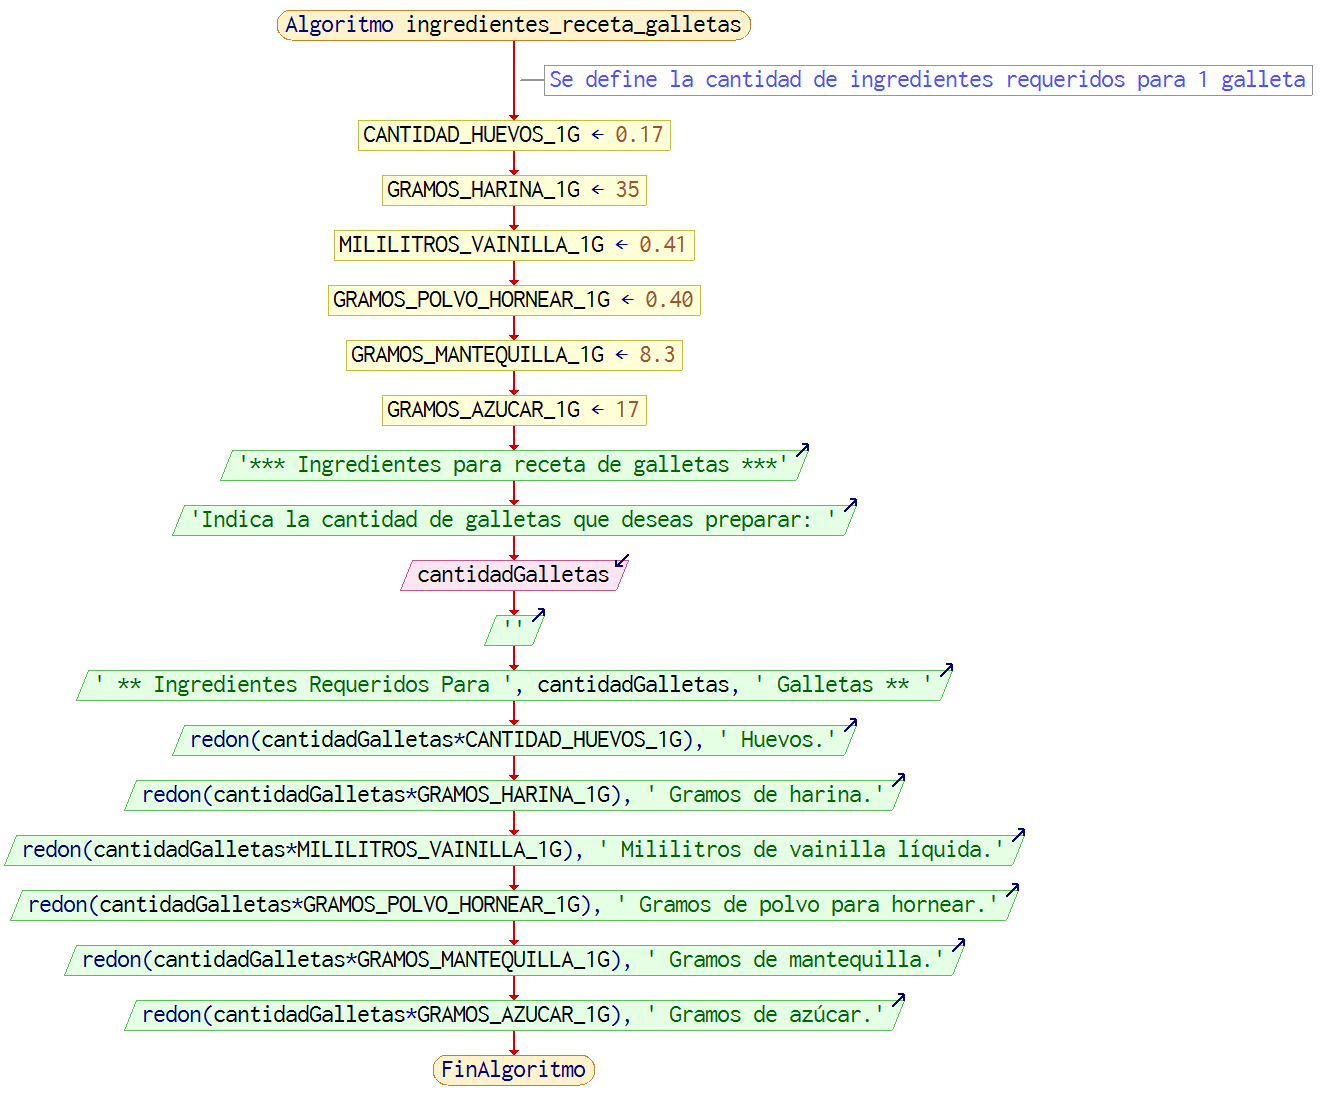
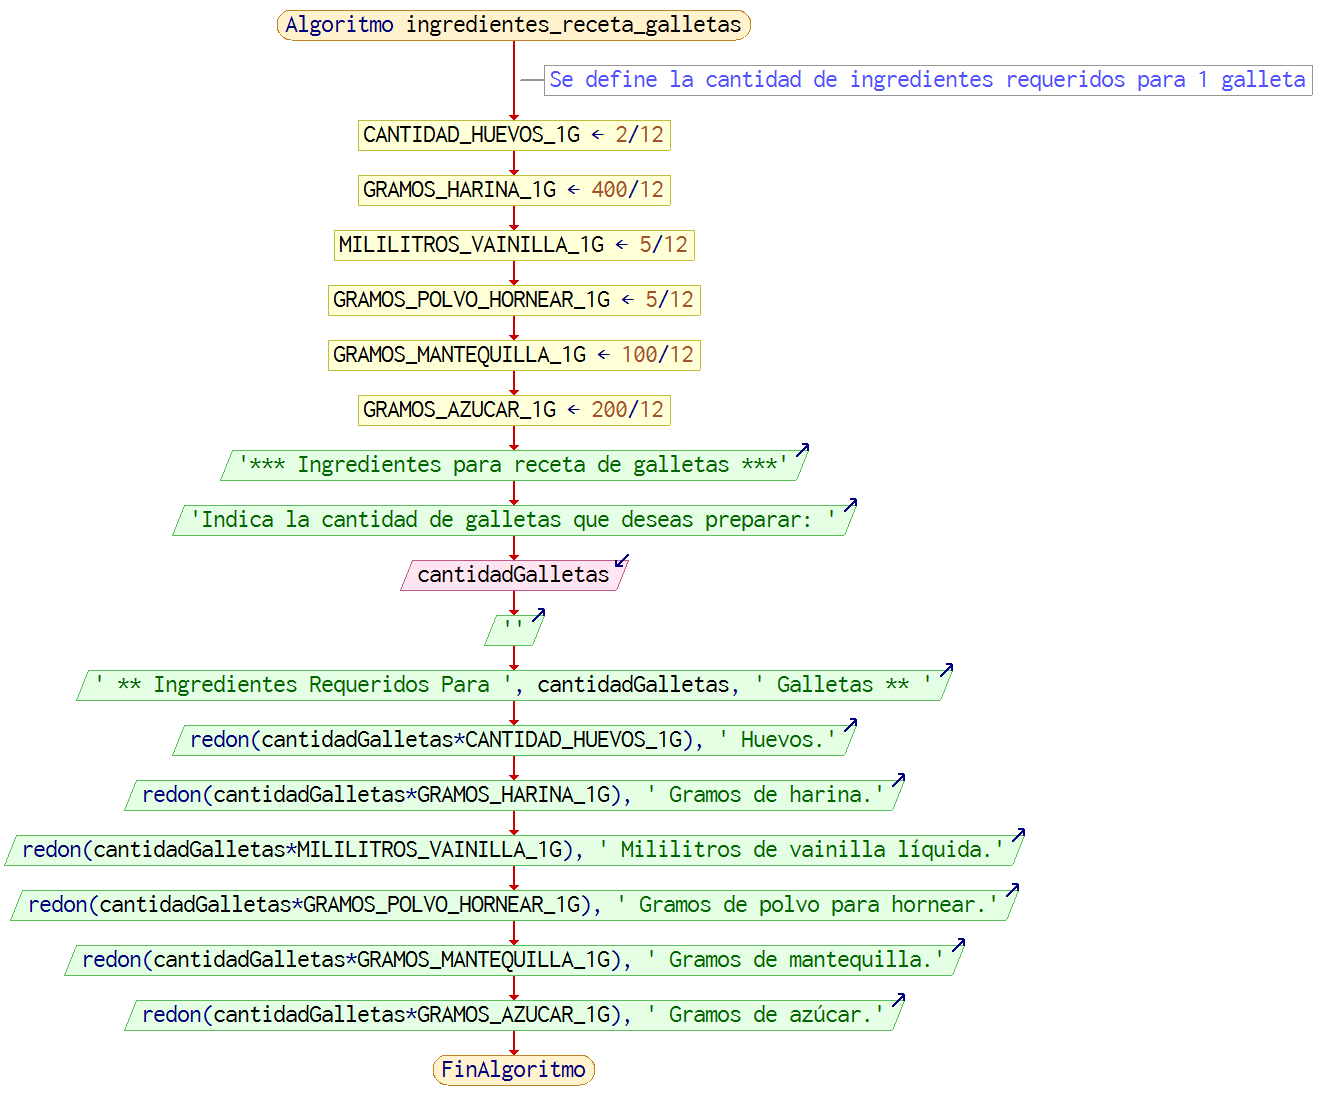
Redefinición de ejercicio

Changed region(s): [[0.2481, 0.25, 0.5272, 0.375], [0.2481, 0.1562, 0.5272, 0.2188], [0.4652, 0.0938, 0.4962, 0.125]]

diff --git a/Ejercicios/Ingredientes para receta de galletas/README.md b/Ejercicios/Ingredientes para receta de galletas/README.md
@@ -4,14 +4,14 @@ Carmen disfruta horneando galletas de mantequilla, pero encuentra tedioso calcul
 de ingredientes necesarios para ciertas porciones. Para simplificar este proceso, necesita un programa que le
 ayude. 
 
-Para cada galleta, se requieren los siguientes ingredientes:
+Si se necesitan los siguientes ingredientes para hacer 12 galletas:
 
-- 0.17 Huevos.
-- 35 Gramos de harina.
-- 0.41 Mililitros de vainilla líquida.
-- 0.40 Gramos de polvo para hornear.
-- 8.3 Gramos de mantequilla.
-- 17 Gramos de azúcar.
+- 2 Huevos.
+- 400 Gramos de harina.
+- 5 Mililitros de vainilla líquida.
+- 5 Gramos de polvo para hornear.
+- 100 Gramos de mantequilla.
+- 200 Gramos de azúcar.
 
 Desarrollar un programa que permita a Carmen ingresar la cantidad de galletas que desea preparar. Luego, mostrará las 
 cantidades de ingredientes requeridas, redondeando los números decimales al entero más cercano para facilitar 
@@ -24,15 +24,15 @@ la medición y preparación.
 ```
 *** Ingredientes para receta de galletas ***
 Indica la cantidad de galletas que deseas preparar:
-> 12
+> 30
 
- ** Ingredientes Requeridos Para 12 Galletas **
-2 Huevos.
-420 Gramos de harina.
-5 Mililitros de vainilla líquida.
-5 Gramos de polvo para hornear.
-100 Gramos de mantequilla.
-204 Gramos de azúcar.
+ ** Ingredientes Requeridos Para 30 Galletas **
+5 Huevos.
+1000 Gramos de harina.
+13 Mililitros de vainilla líquida.
+13 Gramos de polvo para hornear.
+250 Gramos de mantequilla.
+500 Gramos de azúcar.
 ```
 
 ---
